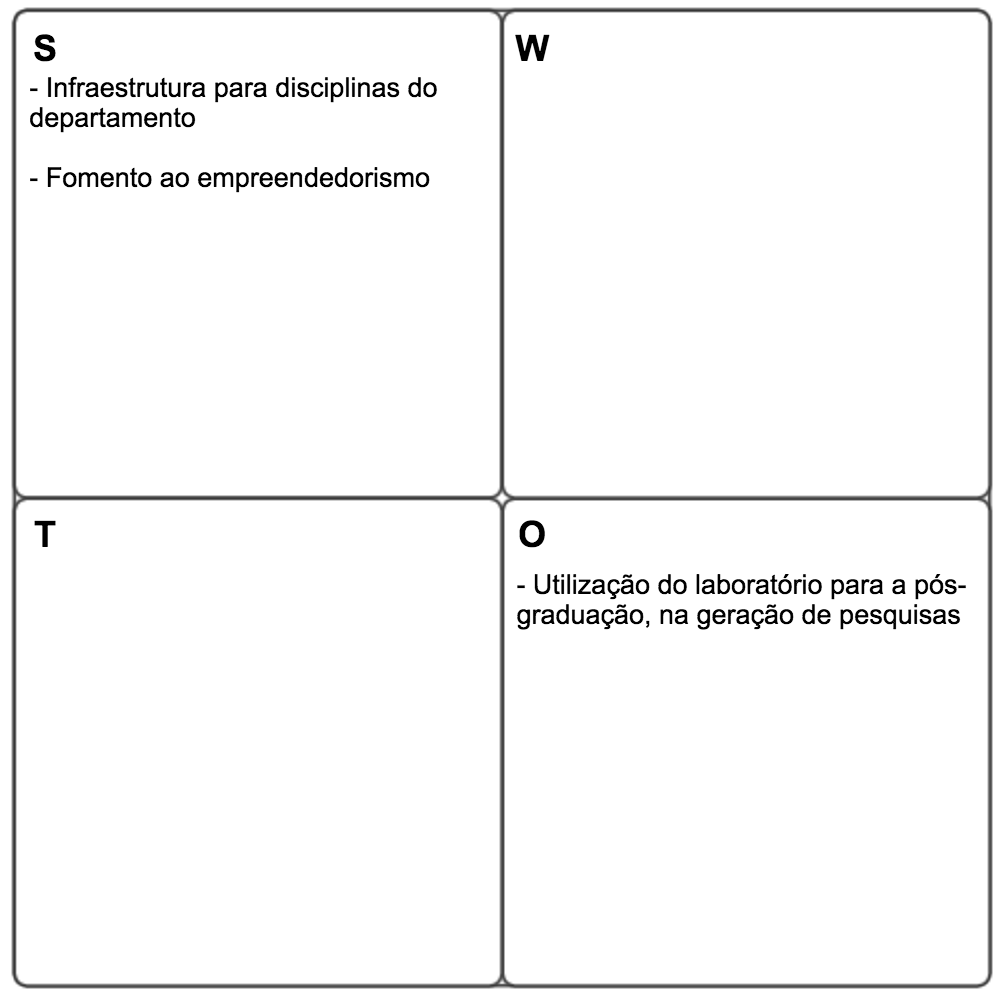
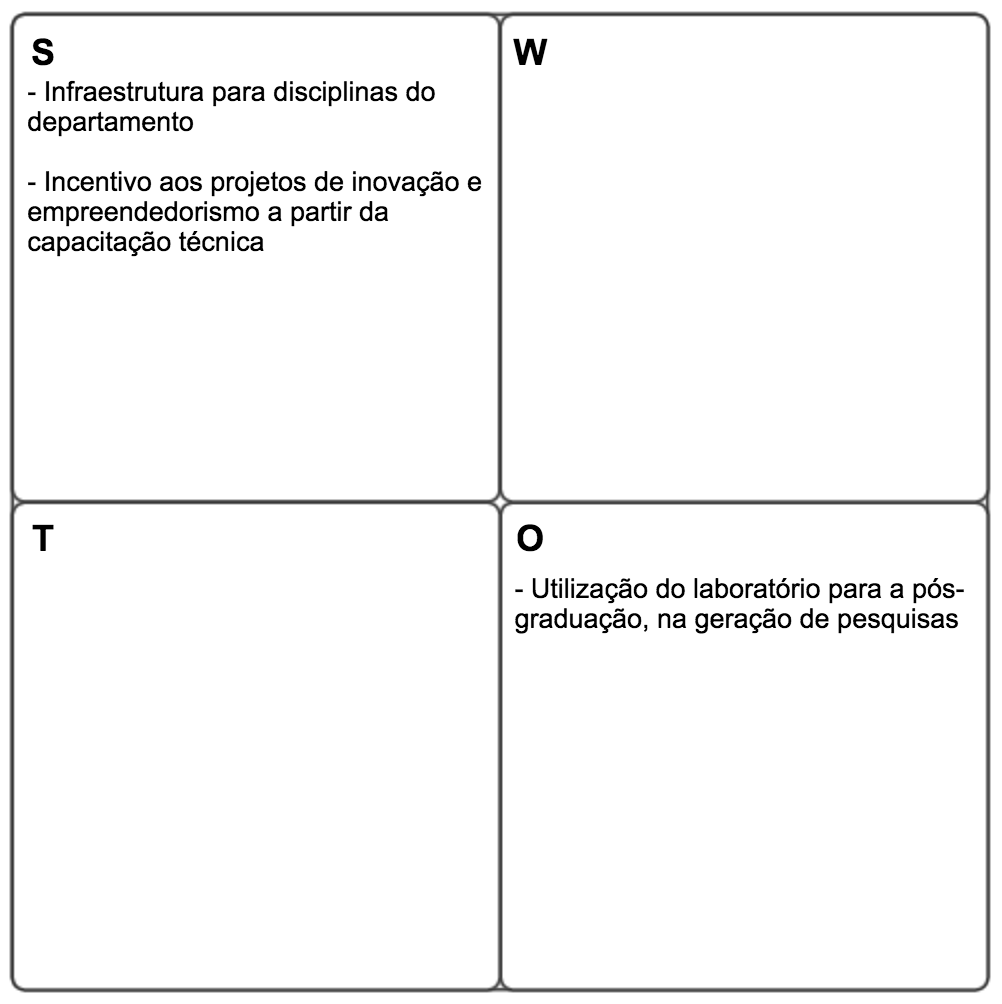
atualizacao pro metodologia e swot

Changed region(s): [[0.0, 0.0, 0.99, 0.996]]

diff --git a/metodologia.tex b/metodologia.tex
@@ -156,6 +156,8 @@ O Inovalab é um laboratório que oferece recursos para realização de projetos
 
 O que pode se ver em comum entre esses projetos e o Ocean é a proximidade da inovação e do empreendedorismo, pontos que o PRO considera essenciais para a tríade pesquisa, ensino e extensão. Segundo o Professor Dr. Fernando Laurindo, a Poli propicia um ambiente de aprendizado com disciplinas que já contribuem nessa área, como Projeto Integrado e Desenvolvimento de Produto, porém grande parte do aprendizado pode ser obtido através de atividades extra curriculares, propiciadas em parte por esses projetos. Um dos principais métodos que a Poli incentiva nos alunos é o \textit{self-learning}, pois o aluno que deve buscar profundidade em certos temas, e a Poli fornece a estrutura para que ele possa absorver conhecimento com facilidade.
 
+Segundo o professor Eduardo Zancul, realmente existe uma conexão estratégica entre esses projetos do ponto de vista do departamento. O professor considera que projetos de inovação podem gerar projetos de empreendedorismo ou pessoas interessadas por inovação podem se engajar por projetos de empreendedorismo. Esse ecossistema foi um dos principais fatores que atrairam o Ocean para dentro da universidade, inclusive foi através do Inovalab que foi feito o contato com a Samsung. Já o laboratório dentro desse ambiente entra com o elemento tecnológico - em especial dispositivos móveis, realidade virtual, \textit{games} e internet das coisas - e a capacitação técnica para desenvolver projetos nessas frentes, incentivando os projetos que surgem no InovaLab e no NEU. A fábrica didática é o último elemento que entra na parte da produção de peças e produtos com a perspectiva de gerar pesquisa na área de fabricação e ensino para os alunos da engenharia de produção.
+
 O empreendedorismo, em particular, sempre acompanhou a trajetória de alunos da Poli, que optaram por abrir a sua própria empresa ao invés de entrarem no mercado de trabalho. Muitas empresas tiveram o desenvolvimento de seu modelo de negócio em paralelo com o trabalho de graduação de alunos. Por isso a Poli busca sempre oferecer recursos que deem a estrutura necessária para os alunos buscarem o seu aprendizado.
 
 Como parceiro de cogestão do Ocean, o PRO é dono e responsável pelo espaço do laboratório e pode utilizá-lo conforme sua necessidade, incluindo aulas, palestras, seminários, eventos internos e até eventos externos, se houver a oportunidade. Por via de regra, o PRO pode ceder o espaço a eventos ligados a outras universidades ou a entidades sem fins lucrativo. Caso não se enquadre nesses dois casos mencionados o PRO pode alugar o espaço a um baixo custo, de forma a arrecadar recursos para o departamento.

diff --git a/analises.tex b/analises.tex
@@ -228,6 +228,10 @@ Em menor volume porém com uma maior gama de opções, existe uma demanda por um
 \caption* {Fonte: Elaborado pelo próprio autor}
 \end{figure}
 
+\subsection{Cursos Intensivos}
+
+
+
 \begin{figure}[h]
 \caption{Análise do Ocean - Cursistas}
 \centerline{\includegraphics[scale=0.75]{img/generalswot}}
